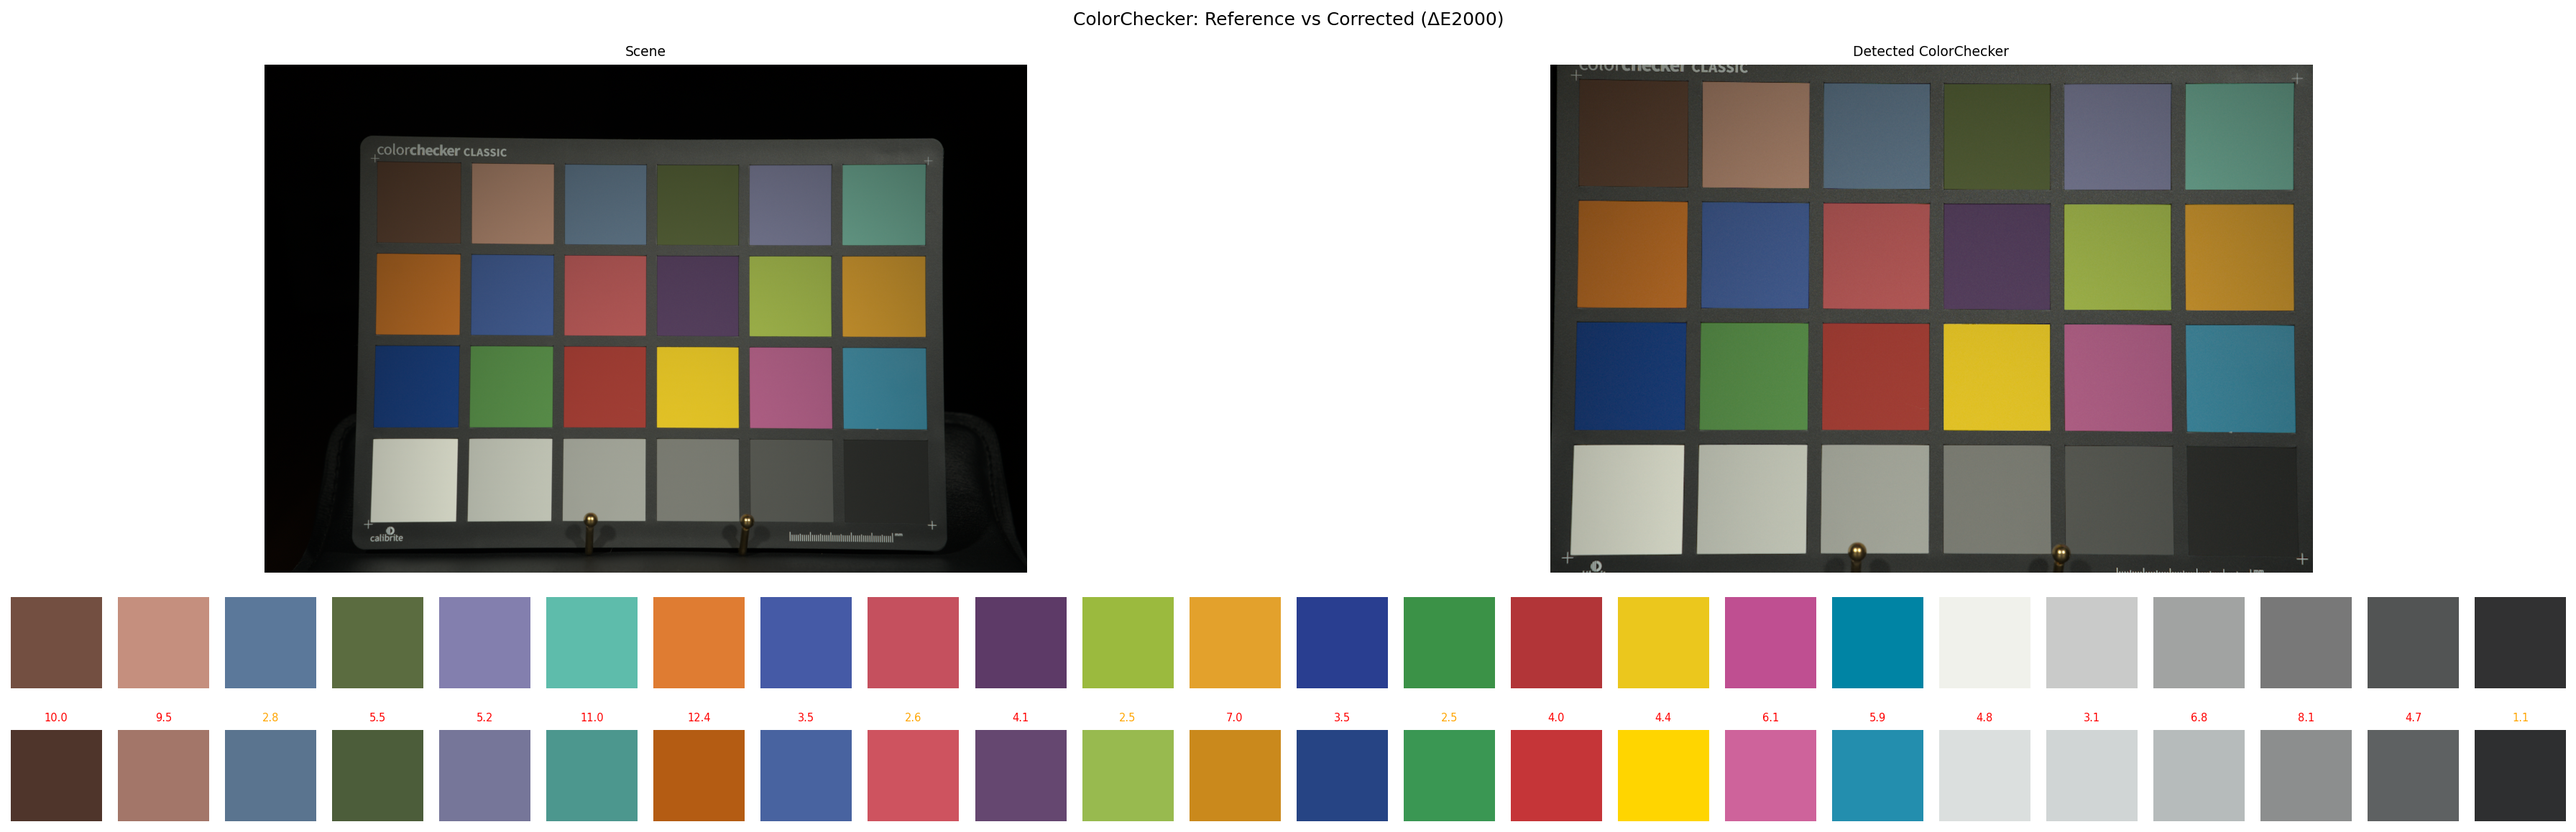
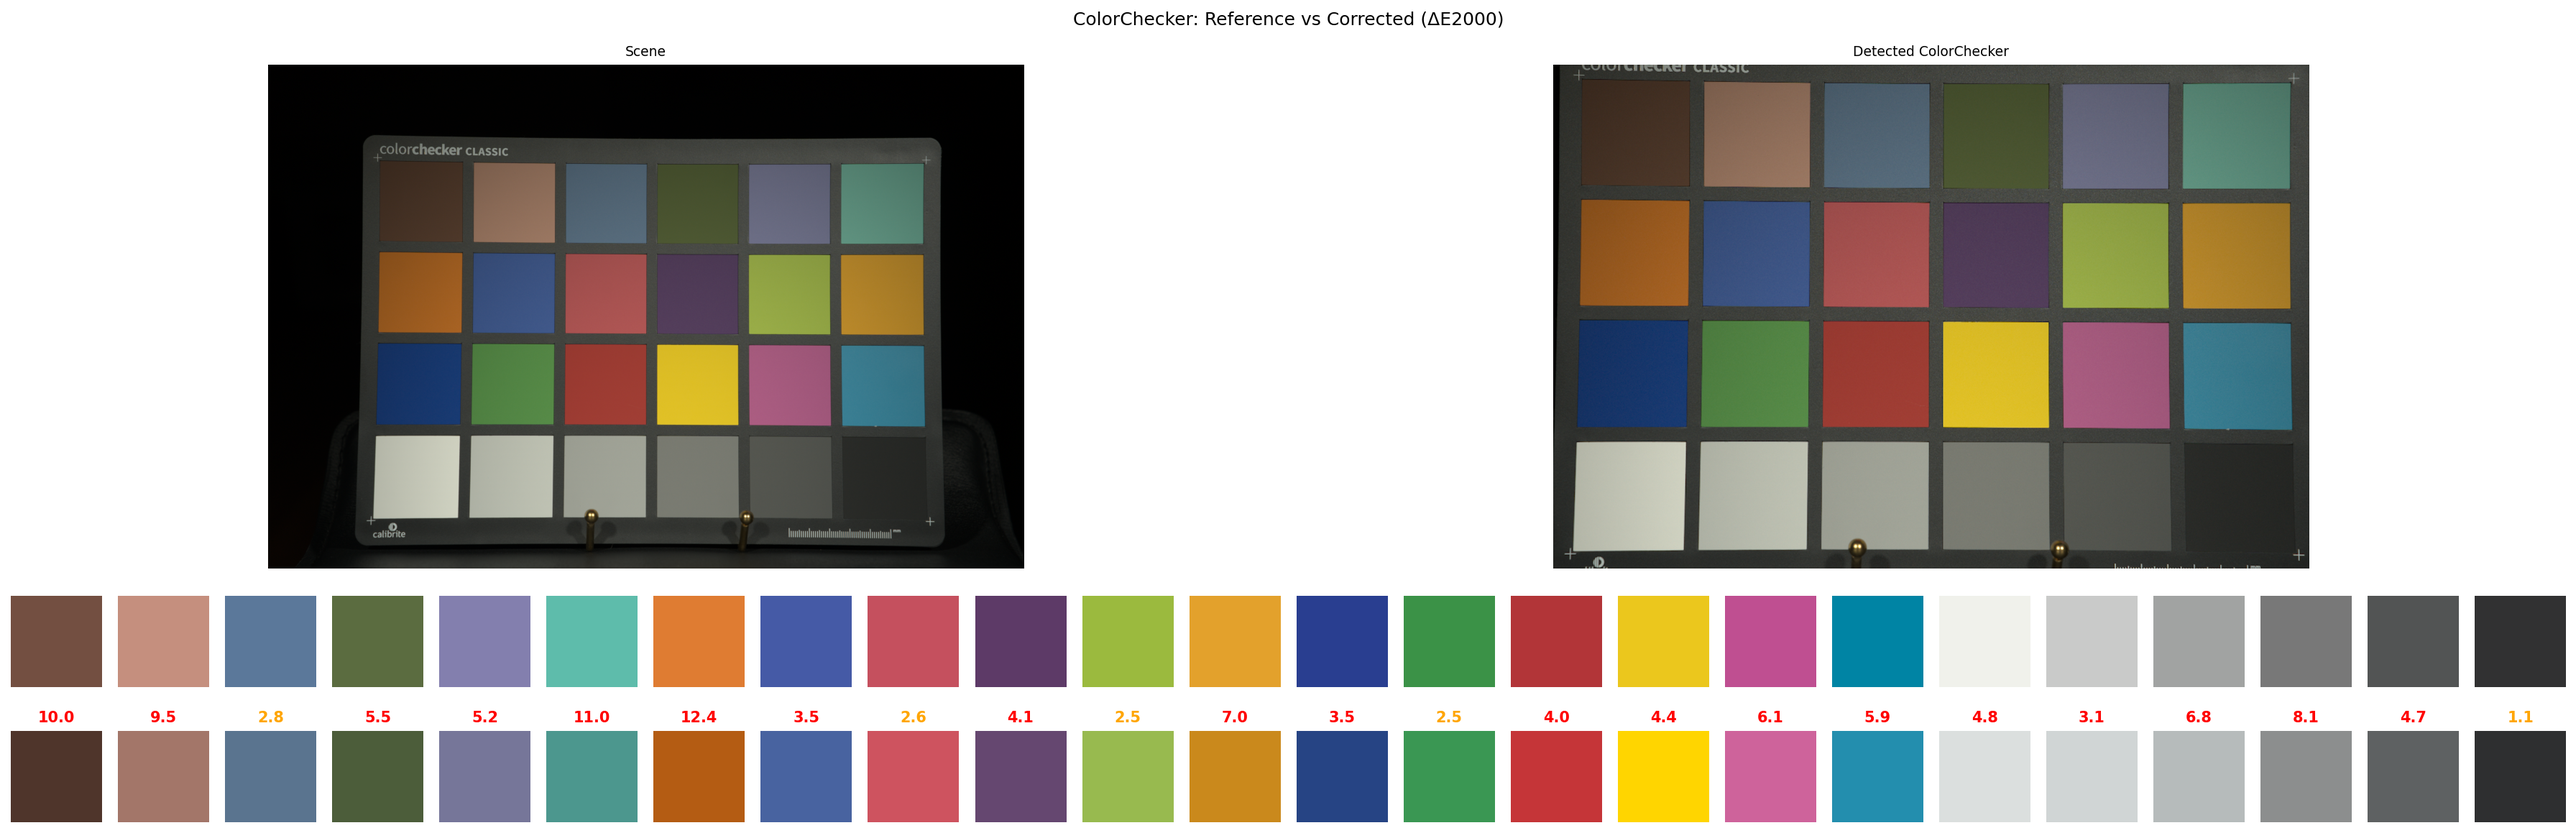
color-code delta e numbers Fixes #13

diff --git a/main.py b/main.py
@@ -171,7 +171,7 @@ def visualize_swatches(image, checker_crop, RGB_reference, RGB_corrected, delta_
         axes[0, i].axis('off')
         axes[1, i].axis('off')
         color = 'green' if delta_e[i] <= 1 else 'orange' if delta_e[i] <= 3 else 'red'
-        axes[1, i].set_title(f"{delta_e[i]:.1f}", fontsize=7, color=color)
+        axes[1, i].set_title(f"{delta_e[i]:.1f}", fontsize=10, color=color, fontweight='bold')
 
 
     # label the rows and show
@@ -180,7 +180,6 @@ def visualize_swatches(image, checker_crop, RGB_reference, RGB_corrected, delta_
     plt.suptitle('ColorChecker: Reference vs Corrected (ΔE2000)')
     plt.tight_layout()
 
-    # TODO #13: color code delta e numbers
     # TODO #14: add patch names below swatches
     # TODO #15: add summary stat for mean delta e
     # TODO #16: label rows
